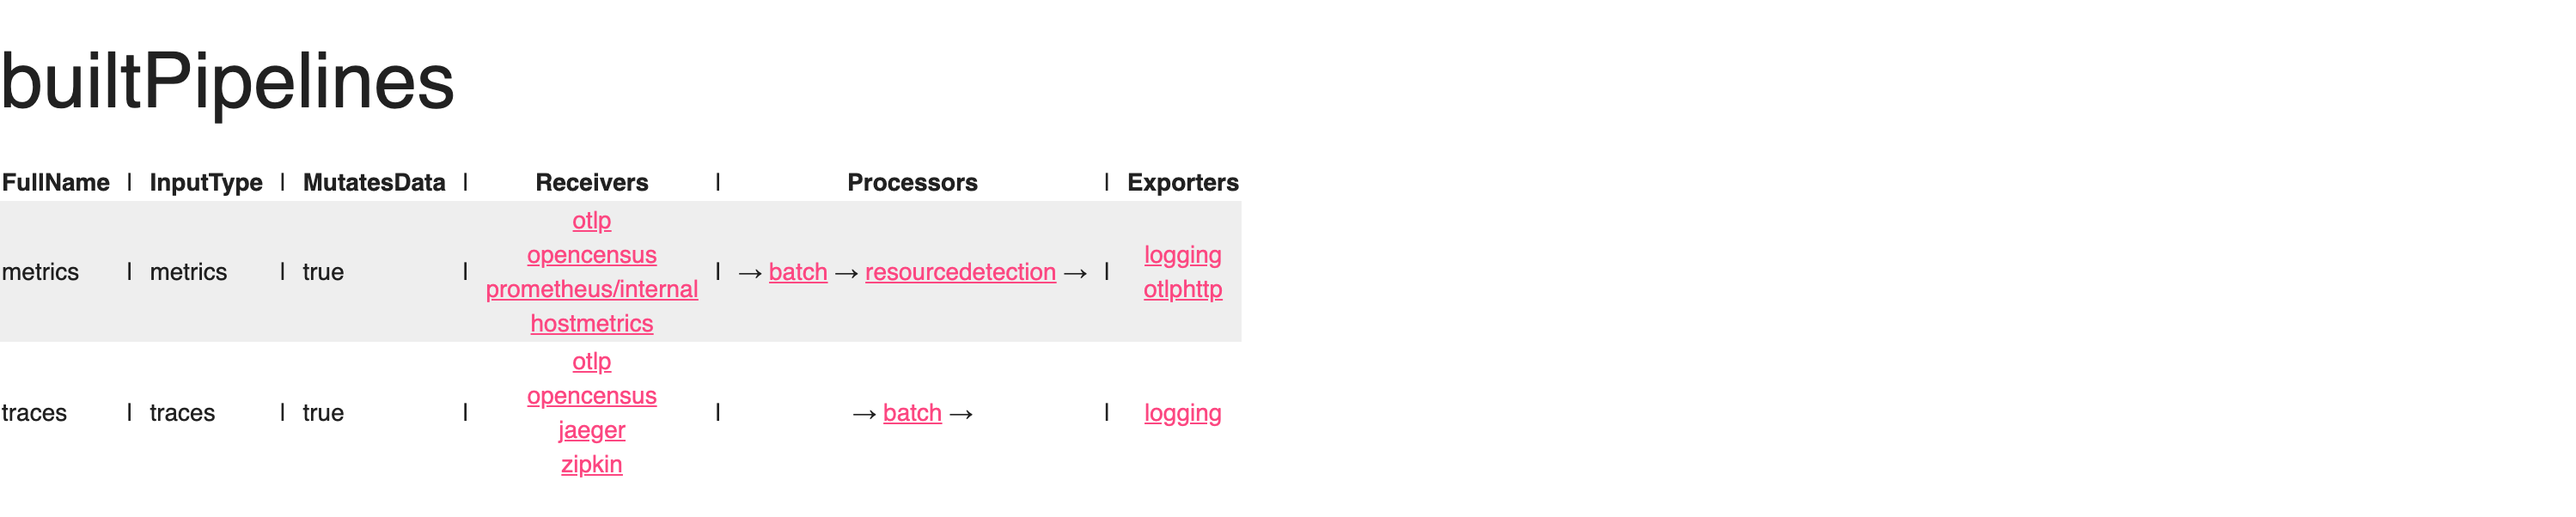
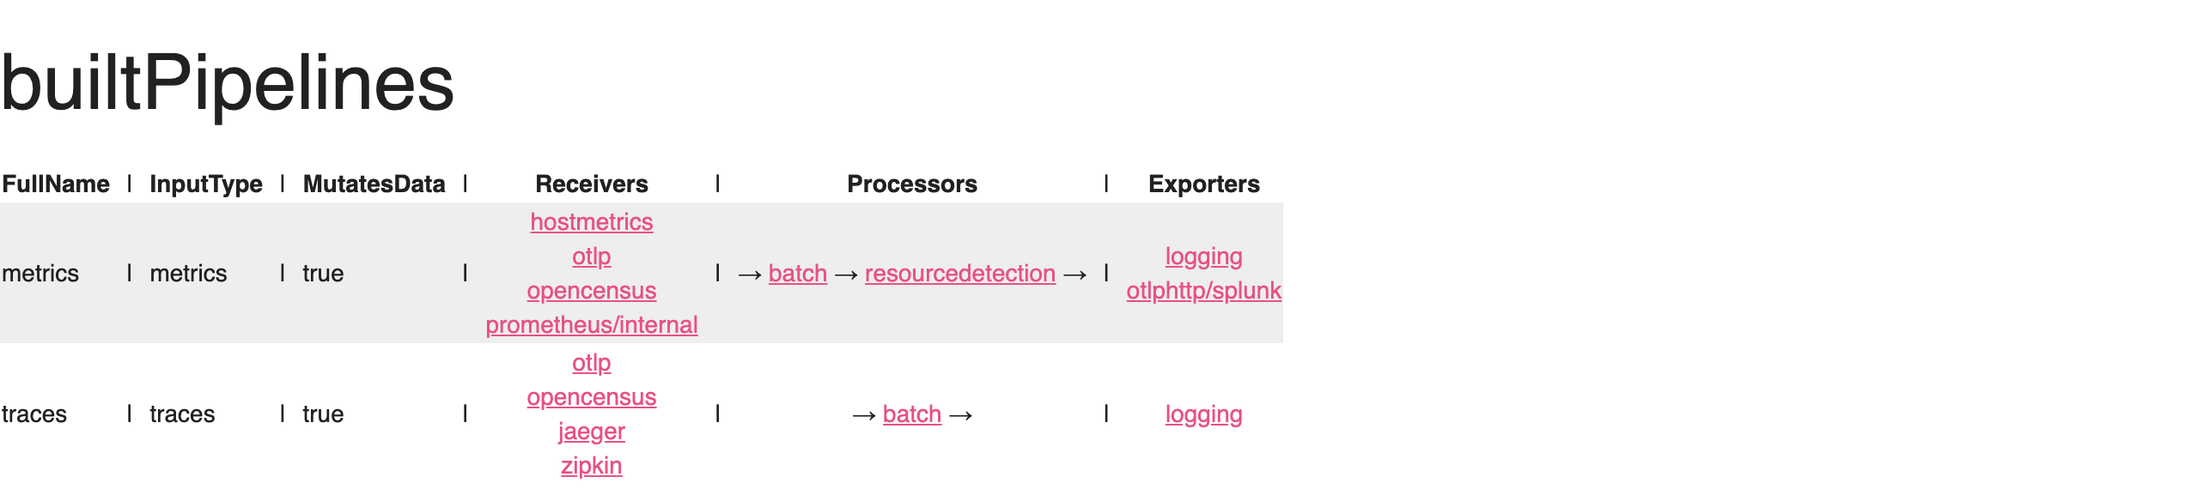
Services

diff --git a/content/en/conf/opentelemetry-collector/5-exporters.md b/content/en/conf/opentelemetry-collector/5-exporters.md
@@ -6,13 +6,45 @@ weight: 5
 
 An exporter, which can be push or pull based, is how you send data to one or more backends/destinations. Exporters may support one or more data sources.
 
-```yaml
+For this workshop we will be using the **otlphttp** exporter. The OpenTelemetry Protocol (OTLP) is a vendor-neutral, standardised protocol for transmitting telemetry data. The OTLP exporter sends data to a server that implements the OTLP protocol. The OTLP exporter supports both gRPC and HTTP/JSON protocols.
+
+In order to send metrics over HTTP to Splunk Observability Cloud we will need to configure the **otlphttp** exporter.
+
+Let's edit our `/etc/otelcontribcol/config.yaml` file and configure the **otlphttp** exporter. Insert the following YAML under the **exporters** section, taking care to indent by two spaces e.g.
+
+```yaml {hl_lines=["4"]}
 exporters:
   logging:
     verbosity: detailed
-  otlphttp:
+  otlphttp/splunk:
+```
+
+Next we need to define the `metrics_endpoint` and configure the target URL. For Splunk Observerability Cloud the URL is `https://ingest.eu0.signalfx.com/v2/datapoint/otlp`.
+
+The **otlphttp** exporter can also be configured to also send traces and logs by defining target URL for `traces_endpoint` and `logs_endpoint` respectively.
+
+```yaml {hl_lines=["5"]}
+exporters:
+  logging:
+    verbosity: detailed
+  otlphttp/splunk:
     metrics_endpoint: https://ingest.eu0.signalfx.com/v2/datapoint/otlp
-    compression: gzip
+```
+
+By default `gzip` compression is enabled for all endpoints, this can be disabled by setting `compression: none` in the exporter configuration. We will leave compression enabled for this workshop and accept the default.
+
+In order to send metrics to Splunk Observability Cloud we need to define a token. This can be done by creating a new token in the Splunk Observability Cloud UI. For more information on how to create a token, see [Create a token](https://docs.splunk.com/Observability/admin/authentication-tokens/org-tokens.html). The token needs to be of type **INGEST**.
+
+The token can then be added to the configuration file by defining a _key_ named `X-SF-TOKEN` and a _value_ of the token created above under `headers` section:
+
+```yaml {hl_lines=["6-8"]}
+exporters:
+  logging:
+    verbosity: detailed
+  otlphttp/splunk:
+    metrics_endpoint: https://ingest.eu0.signalfx.com/v2/datapoint/otlp
     headers:
       X-SF-TOKEN: <redacted>
 ```
+
+Of course, you could easily configure the `metrics_endpoint` to point to any other solution that supports the **OTLP** protocol.

diff --git a/content/en/conf/opentelemetry-collector/6-service.md b/content/en/conf/opentelemetry-collector/6-service.md
@@ -88,7 +88,7 @@ service:
     metrics:
       receivers: [hostmetrics, otlp, opencensus, prometheus/internal]
       processors: [batch, resourcedetection]
-      exporters: [logging, otlphttp]
+      exporters: [logging, otlphttp/splunk]
 ```
 
 ## Final configuration
@@ -96,11 +96,11 @@ service:
 ``` yaml
 extensions:
   health_check:
-    endpoint: 127.0.0.1:13133
+    endpoint: 0.0.0.0:13133
   pprof:
-    endpoint: 127.0.0.1:1777
+    endpoint: 0.0.0.0:1777
   zpages:
-    endpoint: 127.0.0.1:55679
+    endpoint: 0.0.0.0:55679
 
 receivers:
   hostmetrics:
@@ -138,7 +138,7 @@ receivers:
       - job_name: 'otel-collector'
         scrape_interval: 10s
         static_configs:
-        - targets: ['127.0.0.1:8888']
+        - targets: ['0.0.0.0:8888']
 
   jaeger:
     protocols:
@@ -159,6 +159,10 @@ processors:
 exporters:
   logging:
     verbosity: detailed
+  otlphttp/splunk:
+    metrics_endpoint: https://ingest.eu0.signalfx.com/v2/datapoint/otlp
+    headers:
+      X-SF-TOKEN: CkX5Yc0OWpKXsFGeBaXH2Q
 
 service:
 
@@ -172,7 +176,7 @@ service:
     metrics:
       receivers: [hostmetrics, otlp, opencensus, prometheus/internal]
       processors: [batch, resourcedetection]
-      exporters: [logging, otlphttp]
+      exporters: [logging, otlphttp/splunk]
 
   extensions: [health_check, pprof, zpages]
 ```
